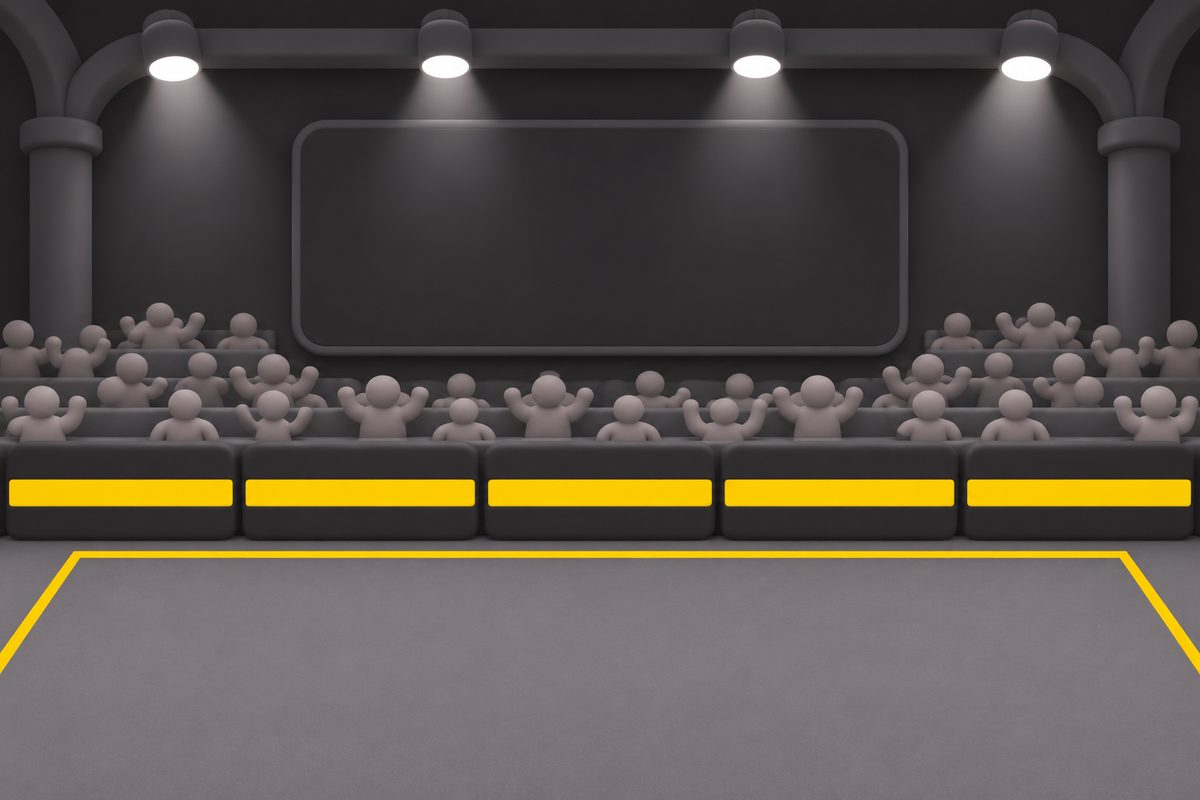
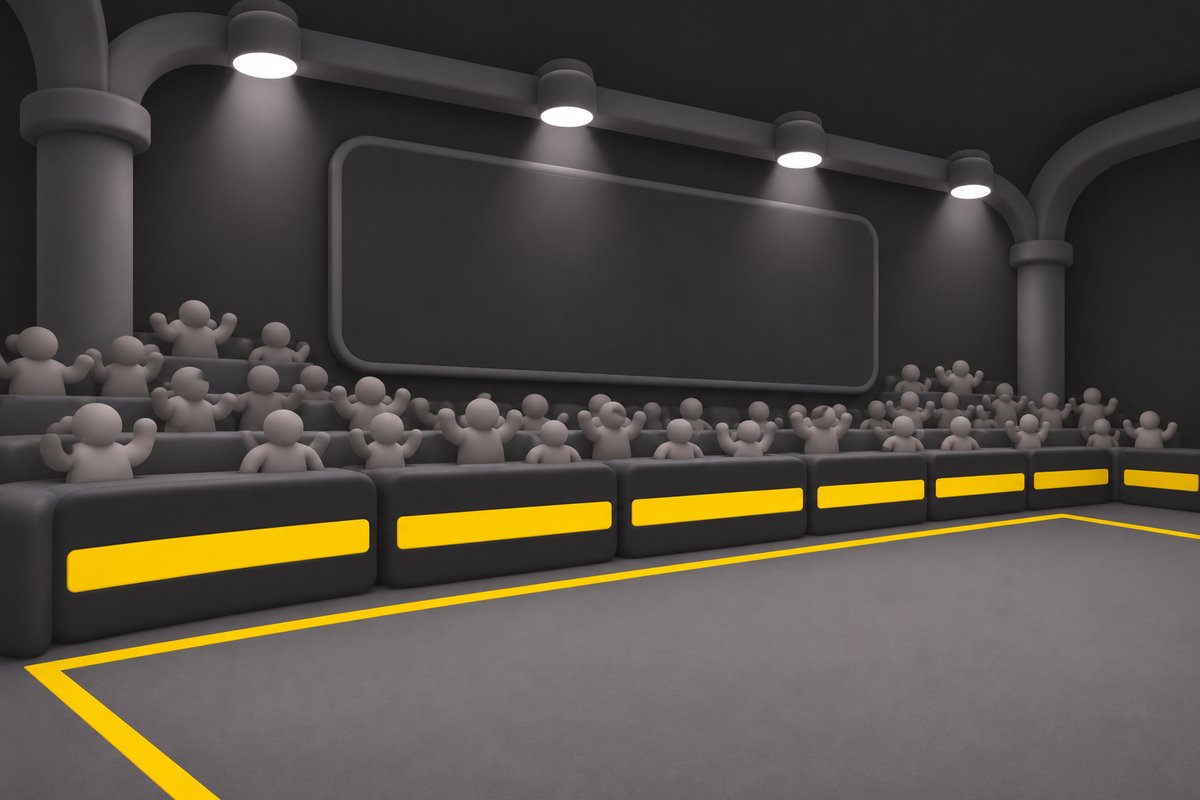
스키: 오른쪽 사선 뒷모습 + 비스듬한 기구·새 경기장, 에르그 모니터 평면·크게
Claude-Session: https://claude.ai/code/session_01SJE5t9gWC7fQLfFGCGp2rx

diff --git a/handrox/index.html b/handrox/index.html
@@ -426,20 +426,22 @@ const ERG={LEN:62,PER:62,
     if(s.kf>0){s.kf=Math.max(0,s.kf-dt*3.5);s.k=Math.max(s.k,s.kf);}}};
 /* 에르그 모니터: 남은 거리 · /500m 페이스 · 분당 스트로크 · 와트 (경기 시계 기준) */
 /* 작은 에르그 모니터: 남은 거리와 /500m 페이스만. 큰 모니터는 화면을 너무 가려 선수 동작에 집중이 안 됐음 */
-/* 큰 에르그 모니터(정면 그림). 칸: 시간·s/m / 페이스 / 남은 거리 / 판정 / 진행 막대 */
-const PM5=new Image();PM5.src='art/pm5.webp';
-function monitorBig(x,y,w,s,need){const h=w*431/360,ink='#1e2a1c',R=G.seg.rate,pace=s.vd>25?clamp(500/s.vd*R,65,599):0,
-  mmss=v=>`${Math.floor(v/60)}:${String(Math.floor(v%60)).padStart(2,'0')}`,X=f=>x+w*f,Y=f=>y+h*f,u=w/100;
-  if(PM5.complete&&PM5.naturalWidth)c.drawImage(PM5,x,y,w,h);else{rr(x,y,w,h,4,'#22222a');rr(X(.08),Y(.14),w*.63,h*.57,1,'#b9c6a2');}
+/* 큰 에르그 모니터(평면으로 그림). 칸: 시간·s/m / 페이스 / 남은 거리 / 판정 / 진행 막대 */
+function monitorBig(x,y,w,s,need){const h=w*1.12,ink='#1e2a1c',R=G.seg.rate,pace=s.vd>25?clamp(500/s.vd*R,65,599):0,
+  mmss=v=>`${Math.floor(v/60)}:${String(Math.floor(v%60)).padStart(2,'0')}`,u=w/100;
+  rr(x,y,w,h,6*u,'#26262c');c.fillStyle='#ffd400';c.fillRect(x+8*u,y,w-16*u,3.5*u);
+  const lx=x+5*u,ly=y+9*u,lw=w-10*u,lh=h-25*u,X=f=>lx+lw*f,Y=f=>ly+lh*f;rr(lx,ly,lw,lh,2*u,'#b9c6a2');
+  for(let i=0;i<3;i++)rr(x+(10+i*28)*u,y+h-12*u,24*u,7*u,3.5*u,'#5a5a64');
+  c.fillStyle=ink;const hl=f=>c.fillRect(lx,Y(f)-.4,lw,.8);[.18,.5,.66,.82].forEach(hl);c.fillRect(X(.62)-.4,ly,.8,lh*.18);
   const lt=(t,px,py,sz,al,op)=>{c.globalAlpha=op||1;c.font=`${sz*u}px Galmuri9, Galmuri11, monospace`;c.textAlign=al;c.textBaseline='middle';c.fillStyle=ink;c.fillText(t,px,py);c.globalAlpha=1;c.textBaseline='alphabetic';};
-  const a=.09,b=.475,e=.70,m=(p,q)=>Y((p+q)/2);
-  lt(L('시간','TIME'),X(a),m(.138,.238),4.2,'left',.7);lt(mmss(s.rt||0),X(b),m(.138,.238),7.5,'right');
-  lt('s/m',X(.50),m(.138,.238),4.2,'left',.7);lt(String(s.sr?Math.round(clamp(s.sr*18,14,48)):0),X(e),m(.138,.238),7.5,'right');
-  lt('/500m',X(a),m(.238,.420),4.2,'left',.7);lt(pace?mmss(pace)+'.'+Math.floor(pace*10%10):'-:--',X(e),m(.238,.420)+u,13.5,'right');
-  lt(L('남은 거리','LEFT'),X(a),m(.420,.509),4.2,'left',.7);lt(Math.max(0,Math.ceil(need-s.p))+'m',X(e),m(.420,.509),8,'right');
-  lt(L('판정','GRADE'),X(a),m(.509,.600),4.2,'left',.7);lt(s.lg==null?'-':(['MISS','GOOD','PERFECT'][s.lg]+((s.streak||0)>=2?' ×'+s.streak:'')),X(e),m(.509,.600),7,'right');
-  const bx=X(a),by=m(.600,.705)-2.2*u,bw=w*.30,bh=4.4*u,pr=clamp(s.p/need,0,1);c.strokeStyle=ink;c.lineWidth=.8;c.strokeRect(bx,by,bw,bh);c.fillStyle=ink;c.fillRect(bx,by,bw*pr,bh);
-  lt(Math.floor(s.p)+'/'+need+'m',X(e),m(.600,.705),5.6,'right');}
+  const a=.04,e=.96,m=(p,q)=>Y((p+q)/2);
+  lt(L('시간','TIME'),X(a),m(0,.18),5,'left',.7);lt(mmss(s.rt||0),X(.59),m(0,.18),9,'right');
+  lt('s/m',X(.65),m(0,.18),5,'left',.7);lt(String(s.sr?Math.round(clamp(s.sr*18,14,48)):0),X(e),m(0,.18),9,'right');
+  lt('/500m',X(a),Y(.24),5,'left',.7);lt(pace?mmss(pace)+'.'+Math.floor(pace*10%10):'-:--',X(e),m(.18,.5)+2*u,20,'right');
+  lt(L('남은 거리','LEFT'),X(a),m(.5,.66),5,'left',.7);lt(Math.max(0,Math.ceil(need-s.p))+'m',X(e),m(.5,.66),10,'right');
+  lt(L('판정','GRADE'),X(a),m(.66,.82),5,'left',.7);lt(s.lg==null?'-':(['MISS','GOOD','PERFECT'][s.lg]+((s.streak||0)>=2?' ×'+s.streak:'')),X(e),m(.66,.82),8.5,'right');
+  const bx=X(a),by=m(.82,1)-2.6*u,bw=lw*.42,bh=5.2*u,pr=clamp(s.p/need,0,1);c.strokeStyle=ink;c.lineWidth=.8;c.strokeRect(bx,by,bw,bh);c.fillRect(bx,by,bw*pr,bh);
+  lt(Math.floor(s.p)+'/'+need+'m',X(e),m(.82,1),7,'right');}
 function monitorMini(x,y,s,need){const w=78,h=34,ink='#17210f',R=G.seg.rate,pace=s.vd>25?clamp(500/s.vd*R,65,599):0,
   mmss=v=>`${Math.floor(v/60)}:${String(Math.floor(v%60)).padStart(2,'0')}`;
   rr(x-3,y-3,w+6,h+6,4,'#22222a');rr(x,y,w,h,2,'#b9c6a2',null);
@@ -466,12 +468,12 @@ const ST=[
   swipe(s,side,dir,key){if(key&&dir==='down')ERG.key(s,124);},
   update(s,dt){ERG.tick(s,dt);},
   want:()=>'LR',
-  /* 비스듬한 뒷모습: 정면 스키에르그 앞에서 선수가 등을 보이고 당김. 줄은 위 도르래(그림 좌표 438·818, 165)에서 손까지, 손잡이는 맨 앞에 */
-  draw(s){sceneK('ski',1);const z=1,u=HEIGHT3*z,FY=156,MC=104,cx=MC+10,ms=1.34*u*1.05/1060,mx=MC-627*ms,my=FY-1180*ms;
-    H3.img('ski_machine',mx,my,1254*ms,1254*ms);const P=[[mx+438*ms,my+165*ms],[mx+818*ms,my+165*ms]];
+  /* 오른쪽 사선 뒷모습: 비스듬한 스키에르그(그림 556×1188 기준 좌표) 앞에서 당김. 줄은 위 도르래 두 곳에서 손까지, 손잡이는 맨 앞에 */
+  draw(s){sceneK('ski',1);const z=1,u=HEIGHT3*z,FY=162,cx=118,mk=u*.8/600,mx=cx-251*mk,my=FY-1285*mk,Q=(x,y)=>[mx+x*mk,my+y*mk];
+    H3.shadow(cx,FY-1,40);H3.img('ski_machine',mx,my,556*mk,1188*mk);const P=[Q(127,181),Q(463,185)];
     const h=H3.show('skib',cx,FY,{k:s.k,z,peek:1});H3.line(P[0][0],P[0][1],h.hand[0],h.hand[1],1.3,'#cdcdd4');H3.line(P[1][0],P[1][1],h.handR[0],h.handR[1],1.3,'#cdcdd4');
     H3.show('skib',cx,FY,{k:s.k,z});for(const q of [h.hand,h.handR])H3.rect(q[0]-2.6,q[1]-6,5.2,8,'#ffc800','#26262e');
-    monitorBig(228,-OFF+30,86,s,this.need);}},
+    monitorBig(210,-OFF+28,104,s,this.need);}},
  {id:'push',rate:36,need:50,unit:'m',pxu:8,nm:['슬레드 푸시','SLED PUSH'],hint:'L + R',
   how:['L·R 동시에 탭! 두 손가락으로 힘껏 밀어요','Tap L and R together to shove the sled'],
   init(s){s.tp={L:-9,R:-9};s.ph=0;s.tph=0;s.k=0;},
@@ -533,7 +535,7 @@ const ST=[
     const h=H3.show('row',FX,seatY,{k:s.k,peek:1,z:Z}),sw=417*ms,sh=158*ms,sx=clamp(h.hips[0],Q(150,0)[0]+sw/2,Q(640,0)[0]-sw*.2);
     H3.img('row_seat',sx-sw/2,railTop-sh,sw,sh);const ch=Q(1145,445);H3.line(ch[0],ch[1],h.hand[0],h.hand[1],1.3,'#c8c8d0');
     H3.show('row',FX,seatY,{k:s.k,z:Z});H3.rect(h.hand[0]-6,h.hand[1]-2.5,12,5,'#ffd400','#26262e');
-    monitorBig(228,-OFF+30,86,s,this.need);}},
+    monitorBig(210,-OFF+28,104,s,this.need);}},
  {id:'carry',rate:26,need:100,unit:'m',pxu:2,nm:['파머스 캐리','FARMERS CARRY'],hint:L('L + R 꾹','HOLD L + R'),
   how:['둘 다 꾹 잡고 걸어요. 악력이 바닥나기 전에 잠깐 떼요!','Hold both to carry. Let go briefly before your grip runs out!'],
   init(s){s.grip=1;s.v=0;s.lock=0;s.ph=0;},
@@ -745,7 +747,7 @@ window.handroxColors=()=>{const D={skin:0,hair:1,top:0,shorts:0,band:0,shoes:0},
   return {skin:o('skin',OPT.skin[CHAR.skin]),hair:o('hair',OPT.hair[CHAR.hair]),top:CHAR.topS===2?OPT.skin[CHAR.skin]:o('top',OPT.top[CHAR.top]),
     shorts:o('shorts',OPT.shorts[CHAR.shorts]),band:o('band',OPT.band[CHAR.band]||'#f2f2f2'),shoes:o('shoes',OPT.shoes[CHAR.shoes])};};
 </script>
-<script>/*HERO_MAN*/window.HERO_MAN={"skib":{"c":"skib_c_830c24e1.webp","m":"skib_m_3db0c7e2.png","n":11,"w":372,"h":402,"box":[-0.62,0.62,-0.02,1.32],"ppu":300,"ref":[137.2,1.0,1.0,1.0,1.0,1.0,1.0],"pts":[{"hand":[-0.1205,0.6096],"handR":[0,0.617],"hips":[-0.018,0.3034],"head":[0,0.5189]},{"hand":[-0.1444,0.6031],"handR":[-0.0246,0.6106],"hips":[-0.018,0.3034],"head":[-0.0143,0.52]},{"hand":[-0.2041,0.5733],"handR":[-0.0861,0.5802],"hips":[-0.018,0.303],"head":[-0.052,0.5164]},{"hand":[-0.2698,0.5051],"handR":[-0.1539,0.5101],"hips":[-0.018,0.3014],"head":[-0.0978,0.4987]},{"hand":[-0.3037,0.4109],"handR":[-0.189,0.4124],"hips":[-0.018,0.2991],"head":[-0.1297,0.4752]},{"hand":[-0.2866,0.3304],"handR":[-0.171,0.3273],"hips":[-0.018,0.2972],"head":[-0.1343,0.4695]},{"hand":[-0.2257,0.2898],"handR":[-0.1074,0.2824],"hips":[-0.018,0.2964],"head":[-0.1086,0.4875]},{"hand":[-0.1421,0.2805],"handR":[-0.0205,0.27],"hips":[-0.018,0.2953],"head":[-0.0596,0.507]},{"hand":[-0.0724,0.2817],"handR":[0.052,0.2701],"hips":[-0.018,0.2934],"head":[-0.0214,0.51]},{"hand":[-0.0444,0.2869],"handR":[0.0818,0.2757],"hips":[-0.018,0.2915],"head":[-0.0232,0.5081]},{"hand":[-0.0346,0.2905],"handR":[0.0923,0.2796],"hips":[-0.018,0.2908],"head":[-0.0239,0.5073]}]},"runf":{"c":"runf_c_188fd9af.webp","m":"runf_m_0eec9dfb.png","n":12,"w":300,"h":348,"box":[-0.5,0.5,-0.04,1.12],"ppu":300,"ref":[154.0,1.0,1.0,1.0,1.0,1.0,1.0],"pts":[{"hand":[0.0943,0.3946],"handR":[-0.0965,0.3835],"hips":[-0.0026,0.3461],"head":[0.0016,0.5599]},{"hand":[0.0923,0.3691],"handR":[-0.0986,0.4261],"hips":[-0.0026,0.3401],"head":[0.0019,0.5538]},{"hand":[0.0908,0.3601],"handR":[-0.1002,0.4575],"hips":[-0.0026,0.3236],"head":[0.0021,0.5372]},{"hand":[0.0902,0.3449],"handR":[-0.1007,0.4535],"hips":[-0.0026,0.3011],"head":[0.0022,0.5147]},{"hand":[0.0908,0.3601],"handR":[-0.1002,0.4575],"hips":[-0.0026,0.3236],"head":[0.0021,0.5372]},{"hand":[0.0923,0.3691],"handR":[-0.0986,0.4261],"hips":[-0.0026,0.3401],"head":[0.0019,0.5538]},{"hand":[0.0943,0.3946],"handR":[-0.0965,0.3835],"hips":[-0.0026,0.3461],"head":[0.0016,0.5599]},{"hand":[0.0964,0.4369],"handR":[-0.0943,0.3607],"hips":[-0.0026,0.3401],"head":[0.0014,0.5538]},{"hand":[0.0978,0.4663],"handR":[-0.0928,0.3552],"hips":[-0.0026,0.3236],"head":[0.0012,0.5373]},{"hand":[0.0984,0.4612],"handR":[-0.0922,0.3414],"hips":[-0.0026,0.3011],"head":[0.0011,0.5148]},{"hand":[0.0978,0.4663],"handR":[-0.0928,0.3552],"hips":[-0.0026,0.3236],"head":[0.0012,0.5373]},{"hand":[0.0964,0.4369],"handR":[-0.0943,0.3607],"hips":[-0.0026,0.3401],"head":[0.0014,0.5538]}]},"run":{"c":"run_c_176b7015.webp","m":"run_m_80916bb9.png","n":12,"w":264,"h":327,"box":[-0.44,0.44,-0.02,1.07],"ppu":300,"ref":[143.0,1.0,1.0,1.0,1.0,1.0,1.0],"pts":[{"hand":[0.0986,0.369],"handR":[0.0919,0.3569],"hips":[0.0215,0.3311],"head":[0.0196,0.5475]},{"hand":[0.0431,0.3465],"handR":[0.1386,0.3936],"hips":[0.0215,0.3271],"head":[0.0196,0.5435]},{"hand":[0.0001,0.3384],"handR":[0.1591,0.4234],"hips":[0.0215,0.3161],"head":[0.0196,0.5325]},{"hand":[-0.015,0.328],"handR":[0.1631,0.4246],"hips":[0.0215,0.3011],"head":[0.0196,0.5175]},{"hand":[0.0001,0.3384],"handR":[0.1591,0.4234],"hips":[0.0215,0.3161],"head":[0.0196,0.5325]},{"hand":[0.0431,0.3465],"handR":[0.1386,0.3936],"hips":[0.0215,0.3271],"head":[0.0196,0.5435]},{"hand":[0.0986,0.369],"handR":[0.0919,0.3569],"hips":[0.0215,0.3311],"head":[0.0196,0.5475]},{"hand":[0.1405,0.4059],"handR":[0.032,0.3365],"hips":[0.0215,0.3271],"head":[0.0196,0.5435]},{"hand":[0.1577,0.4343],"handR":[-0.0132,0.3312],"hips":[0.0215,0.3161],"head":[0.0196,0.5325]},{"hand":[0.1605,0.4349],"handR":[-0.029,0.3219],"hips":[0.0215,0.3011],"head":[0.0196,0.5175]},{"hand":[0.1577,0.4343],"handR":[-0.0132,0.3312],"hips":[0.0215,0.3161],"head":[0.0196,0.5325]},{"hand":[0.1405,0.4059],"handR":[0.032,0.3365],"hips":[0.0215,0.3271],"head":[0.0196,0.5435]}]},"row":{"c":"row_c_5bd66c04.webp","m":"row_m_8ebcd638.png","n":11,"w":348,"h":372,"box":[-0.72,0.44,-0.38,0.86],"ppu":300,"ref":[134.2,1.0,1.0,1.0,1.0,1.0,1.0],"pts":[{"hand":[0.0743,0.0716],"handR":[0.0727,0.0622],"hips":[-0.0938,0],"head":[-0.033,0.2032]},{"hand":[0.0198,0.0716],"handR":[0.0182,0.0622],"hips":[-0.1483,0],"head":[-0.0875,0.2032]},{"hand":[-0.0299,0.0716],"handR":[-0.0315,0.0622],"hips":[-0.198,0],"head":[-0.1372,0.2032]},{"hand":[-0.0736,0.0864],"handR":[-0.0743,0.0768],"hips":[-0.2385,0],"head":[-0.1928,0.2087]},{"hand":[-0.1118,0.1148],"handR":[-0.1107,0.105],"hips":[-0.2661,0],"head":[-0.252,0.2153]},{"hand":[-0.1398,0.1407],"handR":[-0.1369,0.1311],"hips":[-0.2784,0],"head":[-0.2965,0.2159]},{"hand":[-0.1601,0.1533],"handR":[-0.1559,0.1434],"hips":[-0.2785,0],"head":[-0.3283,0.2103]},{"hand":[-0.1844,0.152],"handR":[-0.1796,0.1415],"hips":[-0.2785,0],"head":[-0.3584,0.1989]},{"hand":[-0.2023,0.1405],"handR":[-0.1981,0.1293],"hips":[-0.2785,0],"head":[-0.3725,0.1911]},{"hand":[-0.216,0.1243],"handR":[-0.2136,0.1126],"hips":[-0.2785,0],"head":[-0.3725,0.1911]},{"hand":[-0.2349,0.1126],"handR":[-0.2345,0.1011],"hips":[-0.2785,0],"head":[-0.3725,0.1911]}]},"turn":{"c":"turn_c_95296347.webp","m":"turn_m_5f5e1d59.png","n":12,"w":286,"h":437,"box":[-0.34,0.34,-0.02,1.02],"ppu":420,"ref":[143.2,1.0,1.0,1.0,1.0,1.0,1.0],"pts":[{"hand":[0.1867,0.312],"handR":[-0.1929,0.3023],"hips":[-0.0026,0.3011],"head":[0.0016,0.5166]},{"hand":[0.1721,0.312],"handR":[-0.1621,0.3023],"hips":[0.0085,0.3011],"head":[0.001,0.5166]},{"hand":[0.1114,0.312],"handR":[-0.0878,0.3023],"hips":[0.0174,0.3011],"head":[0.0001,0.5166]},{"hand":[0.0208,0.312],"handR":[0.01,0.3023],"hips":[0.0215,0.3011],"head":[-0.0008,0.5166]},{"hand":[-0.0753,0.312],"handR":[0.1051,0.3023],"hips":[0.0199,0.3011],"head":[-0.0015,0.5166]},{"hand":[-0.1513,0.312],"handR":[0.1721,0.3023],"hips":[0.013,0.3011],"head":[-0.0018,0.5166]},{"hand":[-0.1867,0.312],"handR":[0.1929,0.3023],"hips":[0.0026,0.3011],"head":[-0.0016,0.5166]},{"hand":[-0.1721,0.312],"handR":[0.1621,0.3023],"hips":[-0.0085,0.3011],"head":[-0.001,0.5166]},{"hand":[-0.1114,0.312],"handR":[0.0878,0.3023],"hips":[-0.0174,0.3011],"head":[-0.0001,0.5166]},{"hand":[-0.0208,0.312],"handR":[-0.01,0.3023],"hips":[-0.0215,0.3011],"head":[0.0008,0.5166]},{"hand":[0.0753,0.312],"handR":[-0.1051,0.3023],"hips":[-0.0199,0.3011],"head":[0.0015,0.5166]},{"hand":[0.1513,0.312],"handR":[-0.1721,0.3023],"hips":[-0.013,0.3011],"head":[0.0018,0.5166]}]},"icon":{"c":"icon_c_1e9cd716.webp","m":"icon_m_e8b18b09.png","n":1,"w":198,"h":186,"box":[-0.33,0.33,0.42,1.04],"ppu":300,"ref":[150.7,1.0,1.0,1.0,1.0,1.0,1.0],"pts":[{"hand":[0.1867,0.312],"handR":[-0.1929,0.3023],"hips":[-0.0026,0.3011],"head":[0.0016,0.5166]}]}};/*END_HERO_MAN*/</script>
+<script>/*HERO_MAN*/window.HERO_MAN={"skib":{"c":"skib_c_d29985b6.webp","m":"skib_m_885fd632.png","n":11,"w":360,"h":402,"box":[-0.6,0.6,-0.02,1.32],"ppu":300,"ref":[138.6,1.0,1.0,1.0,1.0,1.0,1.0],"pts":[{"hand":[-0.1005,0.6056],"handR":[0.1636,0.6134],"hips":[0.0143,0.3022],"head":[0.011,0.5188]},{"hand":[-0.0898,0.6026],"handR":[0.1734,0.6103],"hips":[0.0143,0.3019],"head":[0.0135,0.5185]},{"hand":[-0.0619,0.587],"handR":[0.1988,0.5941],"hips":[0.0143,0.3009],"head":[0.0203,0.5169]},{"hand":[-0.0258,0.546],"handR":[0.2308,0.5511],"hips":[0.0143,0.2991],"head":[0.0303,0.513]},{"hand":[0.0048,0.4742],"handR":[0.2553,0.4758],"hips":[0.0143,0.2962],"head":[0.0422,0.5056]},{"hand":[0.0168,0.3842],"handR":[0.2594,0.3814],"hips":[0.0143,0.2923],"head":[0.0548,0.4944]},{"hand":[0.0065,0.3015],"handR":[0.2395,0.2948],"hips":[0.0143,0.2875],"head":[0.0669,0.48]},{"hand":[-0.0183,0.2477],"handR":[0.2047,0.2389],"hips":[0.0143,0.2825],"head":[0.0774,0.4641]},{"hand":[-0.0446,0.2262],"handR":[0.1699,0.2173],"hips":[0.0143,0.2778],"head":[0.0856,0.4492]},{"hand":[-0.0626,0.2246],"handR":[0.146,0.2164],"hips":[0.0143,0.2744],"head":[0.0909,0.4381]},{"hand":[-0.0689,0.2266],"handR":[0.1376,0.2188],"hips":[0.0143,0.2731],"head":[0.0928,0.4339]}]},"runf":{"c":"runf_c_188fd9af.webp","m":"runf_m_0eec9dfb.png","n":12,"w":300,"h":348,"box":[-0.5,0.5,-0.04,1.12],"ppu":300,"ref":[154.0,1.0,1.0,1.0,1.0,1.0,1.0],"pts":[{"hand":[0.0943,0.3946],"handR":[-0.0965,0.3835],"hips":[-0.0026,0.3461],"head":[0.0016,0.5599]},{"hand":[0.0923,0.3691],"handR":[-0.0986,0.4261],"hips":[-0.0026,0.3401],"head":[0.0019,0.5538]},{"hand":[0.0908,0.3601],"handR":[-0.1002,0.4575],"hips":[-0.0026,0.3236],"head":[0.0021,0.5372]},{"hand":[0.0902,0.3449],"handR":[-0.1007,0.4535],"hips":[-0.0026,0.3011],"head":[0.0022,0.5147]},{"hand":[0.0908,0.3601],"handR":[-0.1002,0.4575],"hips":[-0.0026,0.3236],"head":[0.0021,0.5372]},{"hand":[0.0923,0.3691],"handR":[-0.0986,0.4261],"hips":[-0.0026,0.3401],"head":[0.0019,0.5538]},{"hand":[0.0943,0.3946],"handR":[-0.0965,0.3835],"hips":[-0.0026,0.3461],"head":[0.0016,0.5599]},{"hand":[0.0964,0.4369],"handR":[-0.0943,0.3607],"hips":[-0.0026,0.3401],"head":[0.0014,0.5538]},{"hand":[0.0978,0.4663],"handR":[-0.0928,0.3552],"hips":[-0.0026,0.3236],"head":[0.0012,0.5373]},{"hand":[0.0984,0.4612],"handR":[-0.0922,0.3414],"hips":[-0.0026,0.3011],"head":[0.0011,0.5148]},{"hand":[0.0978,0.4663],"handR":[-0.0928,0.3552],"hips":[-0.0026,0.3236],"head":[0.0012,0.5373]},{"hand":[0.0964,0.4369],"handR":[-0.0943,0.3607],"hips":[-0.0026,0.3401],"head":[0.0014,0.5538]}]},"run":{"c":"run_c_176b7015.webp","m":"run_m_80916bb9.png","n":12,"w":264,"h":327,"box":[-0.44,0.44,-0.02,1.07],"ppu":300,"ref":[143.0,1.0,1.0,1.0,1.0,1.0,1.0],"pts":[{"hand":[0.0986,0.369],"handR":[0.0919,0.3569],"hips":[0.0215,0.3311],"head":[0.0196,0.5475]},{"hand":[0.0431,0.3465],"handR":[0.1386,0.3936],"hips":[0.0215,0.3271],"head":[0.0196,0.5435]},{"hand":[0.0001,0.3384],"handR":[0.1591,0.4234],"hips":[0.0215,0.3161],"head":[0.0196,0.5325]},{"hand":[-0.015,0.328],"handR":[0.1631,0.4246],"hips":[0.0215,0.3011],"head":[0.0196,0.5175]},{"hand":[0.0001,0.3384],"handR":[0.1591,0.4234],"hips":[0.0215,0.3161],"head":[0.0196,0.5325]},{"hand":[0.0431,0.3465],"handR":[0.1386,0.3936],"hips":[0.0215,0.3271],"head":[0.0196,0.5435]},{"hand":[0.0986,0.369],"handR":[0.0919,0.3569],"hips":[0.0215,0.3311],"head":[0.0196,0.5475]},{"hand":[0.1405,0.4059],"handR":[0.032,0.3365],"hips":[0.0215,0.3271],"head":[0.0196,0.5435]},{"hand":[0.1577,0.4343],"handR":[-0.0132,0.3312],"hips":[0.0215,0.3161],"head":[0.0196,0.5325]},{"hand":[0.1605,0.4349],"handR":[-0.029,0.3219],"hips":[0.0215,0.3011],"head":[0.0196,0.5175]},{"hand":[0.1577,0.4343],"handR":[-0.0132,0.3312],"hips":[0.0215,0.3161],"head":[0.0196,0.5325]},{"hand":[0.1405,0.4059],"handR":[0.032,0.3365],"hips":[0.0215,0.3271],"head":[0.0196,0.5435]}]},"row":{"c":"row_c_5bd66c04.webp","m":"row_m_8ebcd638.png","n":11,"w":348,"h":372,"box":[-0.72,0.44,-0.38,0.86],"ppu":300,"ref":[134.2,1.0,1.0,1.0,1.0,1.0,1.0],"pts":[{"hand":[0.0743,0.0716],"handR":[0.0727,0.0622],"hips":[-0.0938,0],"head":[-0.033,0.2032]},{"hand":[0.0198,0.0716],"handR":[0.0182,0.0622],"hips":[-0.1483,0],"head":[-0.0875,0.2032]},{"hand":[-0.0299,0.0716],"handR":[-0.0315,0.0622],"hips":[-0.198,0],"head":[-0.1372,0.2032]},{"hand":[-0.0736,0.0864],"handR":[-0.0743,0.0768],"hips":[-0.2385,0],"head":[-0.1928,0.2087]},{"hand":[-0.1118,0.1148],"handR":[-0.1107,0.105],"hips":[-0.2661,0],"head":[-0.252,0.2153]},{"hand":[-0.1398,0.1407],"handR":[-0.1369,0.1311],"hips":[-0.2784,0],"head":[-0.2965,0.2159]},{"hand":[-0.1601,0.1533],"handR":[-0.1559,0.1434],"hips":[-0.2785,0],"head":[-0.3283,0.2103]},{"hand":[-0.1844,0.152],"handR":[-0.1796,0.1415],"hips":[-0.2785,0],"head":[-0.3584,0.1989]},{"hand":[-0.2023,0.1405],"handR":[-0.1981,0.1293],"hips":[-0.2785,0],"head":[-0.3725,0.1911]},{"hand":[-0.216,0.1243],"handR":[-0.2136,0.1126],"hips":[-0.2785,0],"head":[-0.3725,0.1911]},{"hand":[-0.2349,0.1126],"handR":[-0.2345,0.1011],"hips":[-0.2785,0],"head":[-0.3725,0.1911]}]},"turn":{"c":"turn_c_95296347.webp","m":"turn_m_5f5e1d59.png","n":12,"w":286,"h":437,"box":[-0.34,0.34,-0.02,1.02],"ppu":420,"ref":[143.2,1.0,1.0,1.0,1.0,1.0,1.0],"pts":[{"hand":[0.1867,0.312],"handR":[-0.1929,0.3023],"hips":[-0.0026,0.3011],"head":[0.0016,0.5166]},{"hand":[0.1721,0.312],"handR":[-0.1621,0.3023],"hips":[0.0085,0.3011],"head":[0.001,0.5166]},{"hand":[0.1114,0.312],"handR":[-0.0878,0.3023],"hips":[0.0174,0.3011],"head":[0.0001,0.5166]},{"hand":[0.0208,0.312],"handR":[0.01,0.3023],"hips":[0.0215,0.3011],"head":[-0.0008,0.5166]},{"hand":[-0.0753,0.312],"handR":[0.1051,0.3023],"hips":[0.0199,0.3011],"head":[-0.0015,0.5166]},{"hand":[-0.1513,0.312],"handR":[0.1721,0.3023],"hips":[0.013,0.3011],"head":[-0.0018,0.5166]},{"hand":[-0.1867,0.312],"handR":[0.1929,0.3023],"hips":[0.0026,0.3011],"head":[-0.0016,0.5166]},{"hand":[-0.1721,0.312],"handR":[0.1621,0.3023],"hips":[-0.0085,0.3011],"head":[-0.001,0.5166]},{"hand":[-0.1114,0.312],"handR":[0.0878,0.3023],"hips":[-0.0174,0.3011],"head":[-0.0001,0.5166]},{"hand":[-0.0208,0.312],"handR":[-0.01,0.3023],"hips":[-0.0215,0.3011],"head":[0.0008,0.5166]},{"hand":[0.0753,0.312],"handR":[-0.1051,0.3023],"hips":[-0.0199,0.3011],"head":[0.0015,0.5166]},{"hand":[0.1513,0.312],"handR":[-0.1721,0.3023],"hips":[-0.013,0.3011],"head":[0.0018,0.5166]}]},"icon":{"c":"icon_c_1e9cd716.webp","m":"icon_m_e8b18b09.png","n":1,"w":198,"h":186,"box":[-0.33,0.33,0.42,1.04],"ppu":300,"ref":[150.7,1.0,1.0,1.0,1.0,1.0,1.0],"pts":[{"hand":[0.1867,0.312],"handR":[-0.1929,0.3023],"hips":[-0.0026,0.3011],"head":[0.0016,0.5166]}]}};/*END_HERO_MAN*/</script>
 <script src="hero_spr.js"></script>
 </body>
 </html>
